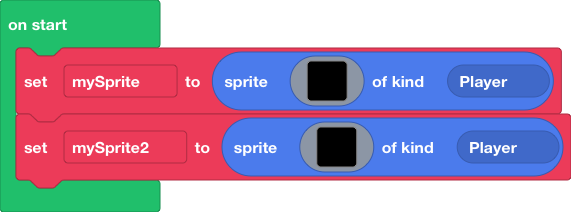
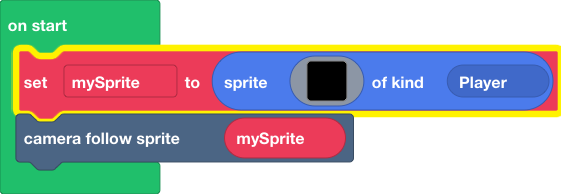
Update main.blocks, main.ts

diff --git a/main.ts b/main.ts
@@ -1,36 +1,19 @@
 let mySprite = sprites.create(img`
-    . . . . . . . . . . . . . . . . 
-    . . . . . . . . . . . . . . . . 
-    . . . . . . . . . . . . . . . . 
-    . . . . . . . . . . . . . . . . 
-    . . . . . . . . . . . . . . . . 
-    . . . . . . . . . . . . . . . . 
-    . . . . . . . . . . . . . . . . 
-    . . . . . . . . . . . . . . . . 
-    . . . . . . . . . . . . . . . . 
-    . . . . . . . . . . . . . . . . 
-    . . . . . . . . . . . . . . . . 
-    . . . . . . . . . . . . . . . . 
-    . . . . . . . . . . . . . . . . 
-    . . . . . . . . . . . . . . . . 
-    . . . . . . . . . . . . . . . . 
-    . . . . . . . . . . . . . . . . 
-    `, SpriteKind.Player)
-let mySprite2 = sprites.create(img`
-    . . . . . . . . . . . . . . . . 
-    . . . . . . . . . . . . . . . . 
-    . . . . . . . . . . . . . . . . 
-    . . . . . . . . . . . . . . . . 
-    . . . . . . . . . . . . . . . . 
-    . . . . . . . . . . . . . . . . 
-    . . . . . . . . . . . . . . . . 
-    . . . . . . . . . . . . . . . . 
-    . . . . . . . . . . . . . . . . 
-    . . . . . . . . . . . . . . . . 
-    . . . . . . . . . . . . . . . . 
-    . . . . . . . . . . . . . . . . 
-    . . . . . . . . . . . . . . . . 
-    . . . . . . . . . . . . . . . . 
-    . . . . . . . . . . . . . . . . 
+    . . . . . . . 2 . . . . . . . . 
+    . . . . . . 2 . 2 . . . . . . . 
+    . . . . . 2 . . . 2 . . . . . . 
+    . . . . . 2 . 2 . 2 . . . . . . 
+    . . . . . 2 . . . 2 . . . . . . 
+    . . . . . 2 . 2 . 2 . . . . . . 
+    . . . . . 2 . . . 2 . . . . . . 
+    . . . . . 2 . 2 . 2 . . . . . . 
+    . . . . . 2 . . . 2 . . . . . . 
+    . . . . . 2 . 2 . 2 . . . . . . 
+    . . . . . 2 . . . 2 . . . . . . 
+    . . . . . 2 . 2 . 2 . . . . . . 
+    . . . . . 2 . . . 2 . . . . . . 
+    . . . . . 2 . 2 . 2 . . . . . . 
+    . . . . . 2 2 2 2 2 . . . . . . 
     . . . . . . . . . . . . . . . . 
     `, SpriteKind.Player)
+scene.cameraFollowSprite(mySprite)
